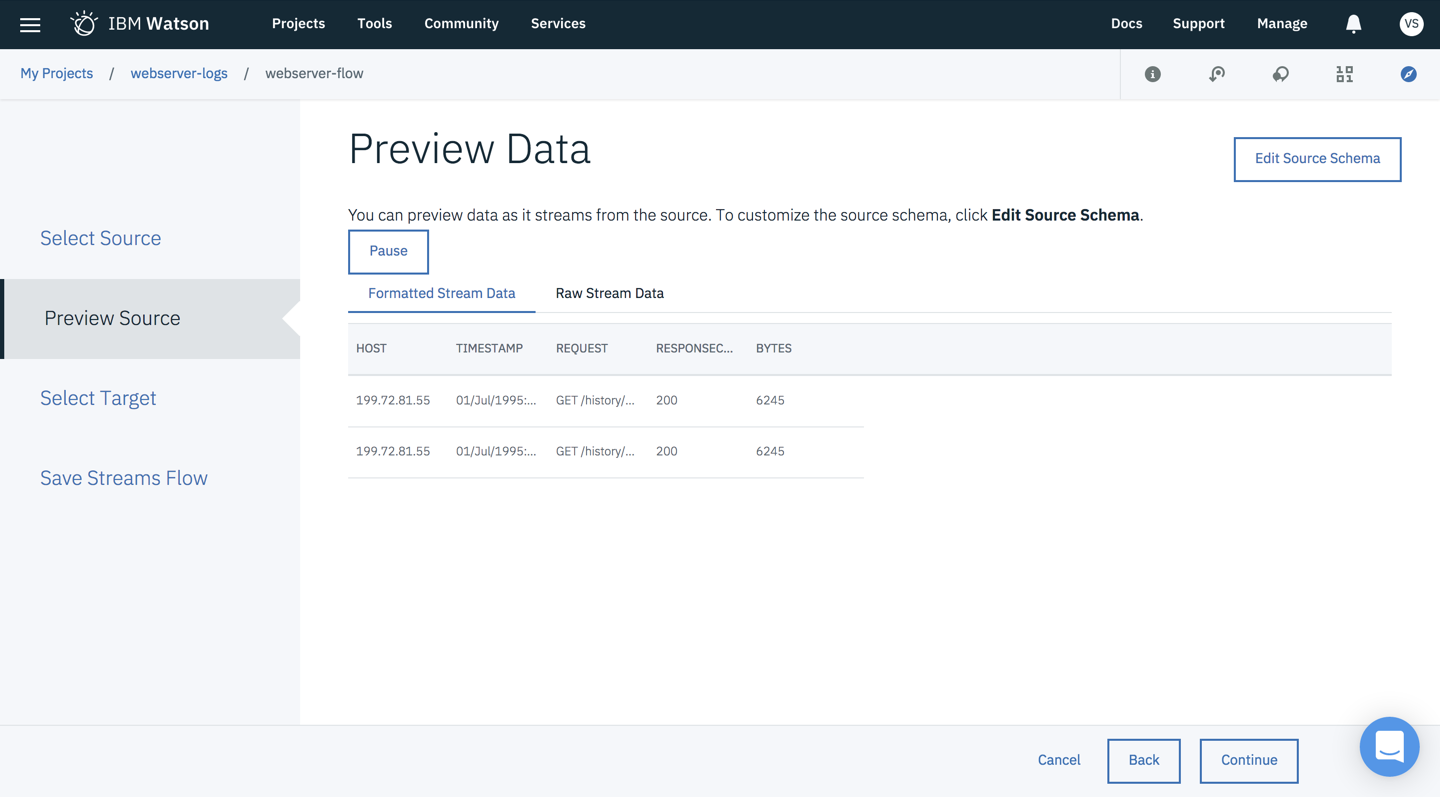
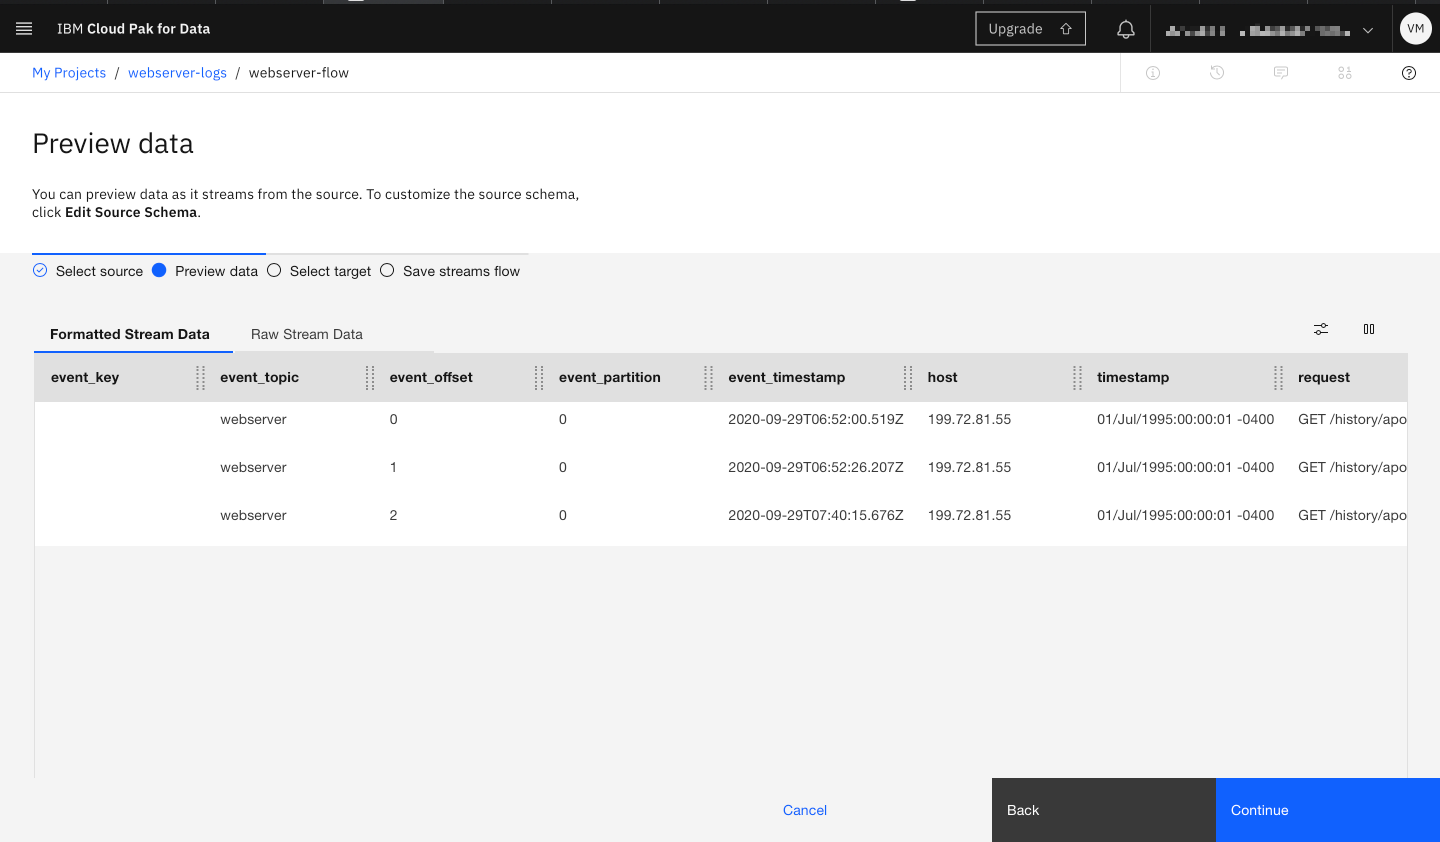
More updates to sol 31

diff --git a/big-data-log-analytics.md b/big-data-log-analytics.md
@@ -107,7 +107,7 @@ In this section, you will create the services required to perform analysis of lo
 3.  Under **Service credentials**, click on **New credential**
    1. Provide a name for the credential - `es-for-log-analysis`.
    2. select **Writer** as the role and click **Add**.
-4. Make note of the values. They will be used in the next section.
+4. Make note of the values. They will be used in the `event-streams.config` file in the next section.
 
 ### {{site.data.keyword.sqlquery_short}}
 {: #big-data-log-analytics-new-sqlquery}
@@ -147,7 +147,9 @@ In this section, you will create the services required to perform analysis of lo
       - `access_key_id` and `secret_access_key` are found in the service credentials created earlier.
       - `cosEndpoint` is a private endpoint to access the {{site.data.keyword.cos_short}} bucket.
 6. Once the service is provisioned, go to **Manage** to retrieve the user name and password for the cluster. You may need to reset the cluster password.
-7. Under **Service credentials**, create new credential.
+7. Under **Service credentials**, create **New credential**.
+   * Provide `iae-for-log-analysis` as the credential name.
+   * Select **Writer** as the role and click **Add**.
 8. From the credentials, make note of the `ssh` value giving the *ssh* command line to execute to connect to the cluster.
 
 ## Process log messages with Streams in Watson Data Platform
@@ -159,32 +161,35 @@ In this section, you will create the services required to perform analysis of lo
 
 In this section, you will begin configuring a Streams flow that receives log messages. The {{site.data.keyword.streaminganalyticsshort}} service is powered by {{site.data.keyword.streamsshort}}, which can analyze millions of events per second, enabling sub-millisecond response times and instant decision-making.
 
-1. In your browser, access [Watson Data Platform](https://dataplatform.ibm.com).
-2. Select the **New project** button or tile, then the **Basic** tile and click **OK**.
+1. In your browser, access [{{site.data.keyword.cpd_full_notm}}](https://dataplatform.{DomainName}).
+2. Click on **Create a project** and then click **Create an empty project**.
     * Enter the **Name** `webserver-logs`.
-    * The **Storage** option should be set to `log-analysis-cos`. If not, select the service instance.
+    * The **Define storage** option should be set to `log-analysis-cos`. If not, select the service instance.
     * Click the **Create** button.
-4. Click the **Add to project** button then **Streams flow** from the top navigation bar.
+3. Click the **Add to project** button then **Streams flow** from the top navigation bar.
     * Click **Associate an IBM Streaming Analytics instance with a container-based plan**.
-    * Create a new {{site.data.keyword.streaminganalyticsshort}} instance by selecting the **Lite** radio button and clicking **Create**.
-    * Provide the **Service name** as `log-analysis-sa` and click **Confirm**.
-    * Type the streams flow **Name** as `webserver-flow`.
-    * Finish by clicking **Create**.
-5. On the resulting page, select the **{{site.data.keyword.messagehub}}** tile.
+    * Click on **New Service** and then click the {{site.data.keyword.streaminganalyticsshort}} tile
+       * Select a region where you have other services provisioned
+       * Select the **Lite** plan
+       * Provide the **Service name** as `log-analysis-sa` and click **Create**.
+4. Select `log-analysis-sa` from the list and click **Associate service**.
+5. Type the streams flow **Name** as `webserver-flow`.
+6. Select **Wizard** and click **Create**.
+7. On the resulting page, select the **{{site.data.keyword.messagehub}}** tile.
     * Click **Add Connection** and select your `log-analysis-hub` {{site.data.keyword.messagehub}} instance. If you do not see your instance listed, select the **IBM {{site.data.keyword.messagehub}}** option. Manually enter the **Connection details** that you obtained from the **Service credentials** in the previous section. **Name** the connection `webserver-flow`.
     * Click **Create** to create the connection.
     * Select `webserver` from the **Topic** dropdown.
     * Select **Start with the first new message** from the **Initial Offset** dropdown.
     * Click **Continue**.
-6. Leave the **Preview Data** page open; it will be used in the next section.
+8. Leave the **Preview Data** page open; it will be used in the next section.
 
 ### Using Kafka console tools with {{site.data.keyword.messagehub}}
 {: #big-data-log-analytics-kafkatools}
 
 The `webserver-flow` is currently idle and awaiting messages. In this section, you will configure Kafka console tools to work with {{site.data.keyword.messagehub}}. Kafka console tools allow you to produce arbitrary messages from the terminal and send them to {{site.data.keyword.messagehub}}, which will trigger the `webserver-flow`.
 
-1. Download and unzip the [Kafka 0.10.2.X client](https://www.apache.org/dyn/closer.cgi?path=/kafka/0.10.2.1/kafka_2.11-0.10.2.1.tgz).
-2. Change directory to `bin` and create a text file named `message-hub.config` with the following contents.
+1. Download and unzip the [Kafka 2.6.x client](https://www.apache.org/dyn/closer.cgi?path=/kafka/2.6.0/kafka_2.13-2.6.0.tgz).
+2. Change directory to `bin` and create a text file named `event-streams.config` with the following contents.
     ```sh
     sasl.jaas.config=org.apache.kafka.common.security.plain.PlainLoginModule required username="USER" password="PASSWORD";
     security.protocol=SASL_SSL
@@ -194,20 +199,19 @@ The `webserver-flow` is currently idle and awaiting messages. In this section, y
     ssl.endpoint.identification.algorithm=HTTPS
     ```
     {: codeblock}
-3. Replace `USER` and `PASSWORD` in your `message-hub.config` file with the `user` and `password` values seen in **Service Credentials** from the previous section. Save `message-hub.config`.
+3. Replace `USER` and `PASSWORD` in your `event-streams.config` file with the `user` and `password` values seen in **Service Credentials** from the {{site.data.keyword.messagehub}} service. Save `event-streams.config`.
 4. From the `bin` directory, run the following command. Replace `KAFKA_BROKERS_SASL` with the `kafka_brokers_sasl` value seen in **Service Credentials**. An example is provided.
     ```sh
-    ./kafka-console-producer.sh --broker-list KAFKA_BROKERS_SASL --producer.config message-hub.config --topic webserver
+    ./kafka-console-producer.sh --bootstrap-server KAFKA_BROKERS_SASL --producer.config event-streams.config --topic webserver
     ```
     {: pre}
     ```sh
-    ./kafka-console-producer.sh --broker-list \
-    kafka04-prod02.messagehub.services.us-south.bluemix.net:9093,\
-    kafka05-prod02.messagehub.services.us-south.bluemix.net:9093,\
-    kafka02-prod02.messagehub.services.us-south.bluemix.net:9093,\
-    kafka01-prod02.messagehub.services.us-south.bluemix.net:9093,\
-    kafka03-prod02.messagehub.services.us-south.bluemix.net:9093 \
-    --producer.config message-hub.config --topic webserver
+    ./kafka-console-producer.sh --bootstrap-server broker-3-nhmyd97mb59jxxxx.kafka.svc06.us-south.eventstreams.cloud.ibm.com:9093, \
+    broker-4-nhmyd97mb59jxxxx.kafka.svc06.us-south.eventstreams.cloud.ibm.com:9093, \
+    broker-2-nhmyd97mb59jxxxx.kafka.svc06.us-south.eventstreams.cloud.ibm.com:9093, \
+    broker-5-nhmyd97mb59jxxxx.kafka.svc06.us-south.eventstreams.cloud.ibm.com:9093, \
+    broker-0-nhmyd97mb59jxxxx.kafka.svc06.us-south.eventstreams.cloud.ibm.com:9093, \
+    broker-1-nhmyd97mb59jxxxx.kafka.svc06.us-south.eventstreams.cloud.ibm.com:9093 --producer.config event-streams.config --topic webserver
     ```
 5. The Kafka console tool is awaiting input. Copy and paste the log message from below into the terminal. Hit `enter` to send the log message to {{site.data.keyword.messagehub}}. Notice the sent messages also display on the `webserver-flow` **Preview Data** page.
     ```javascript
